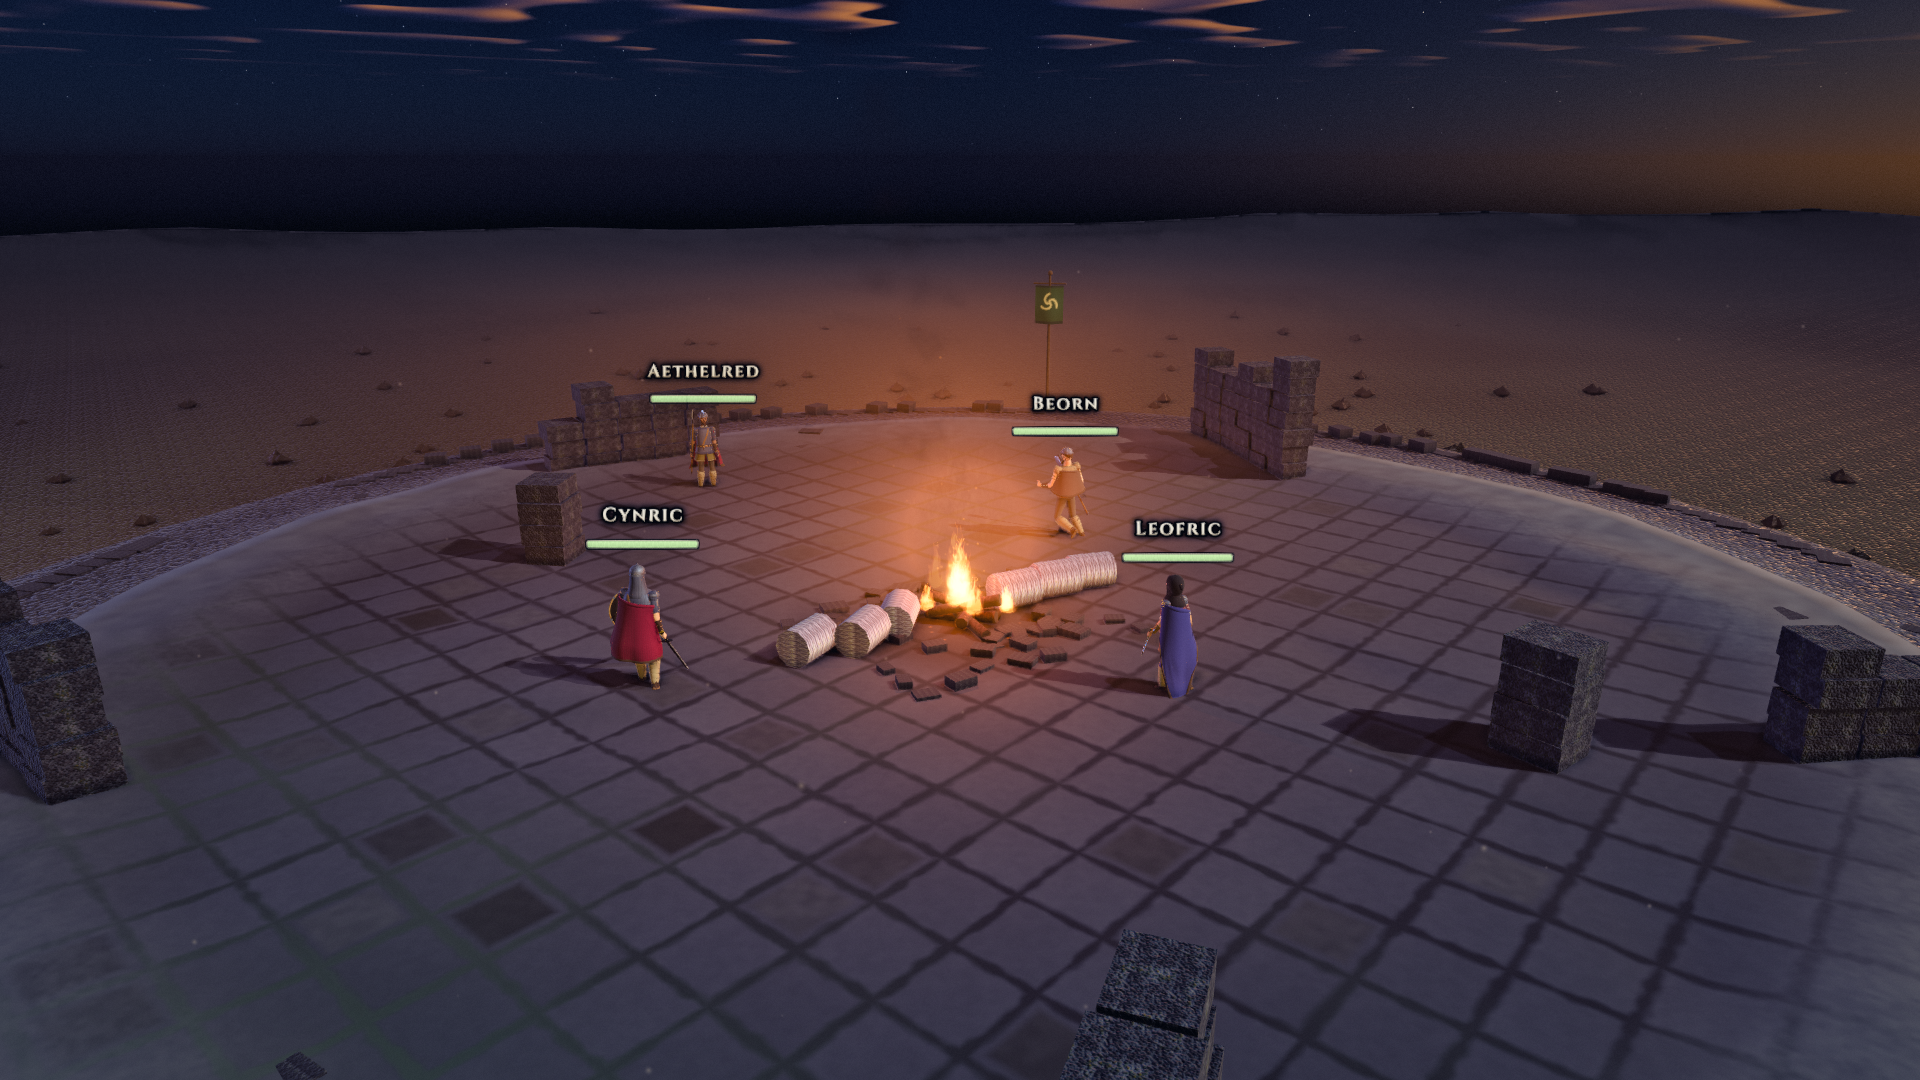
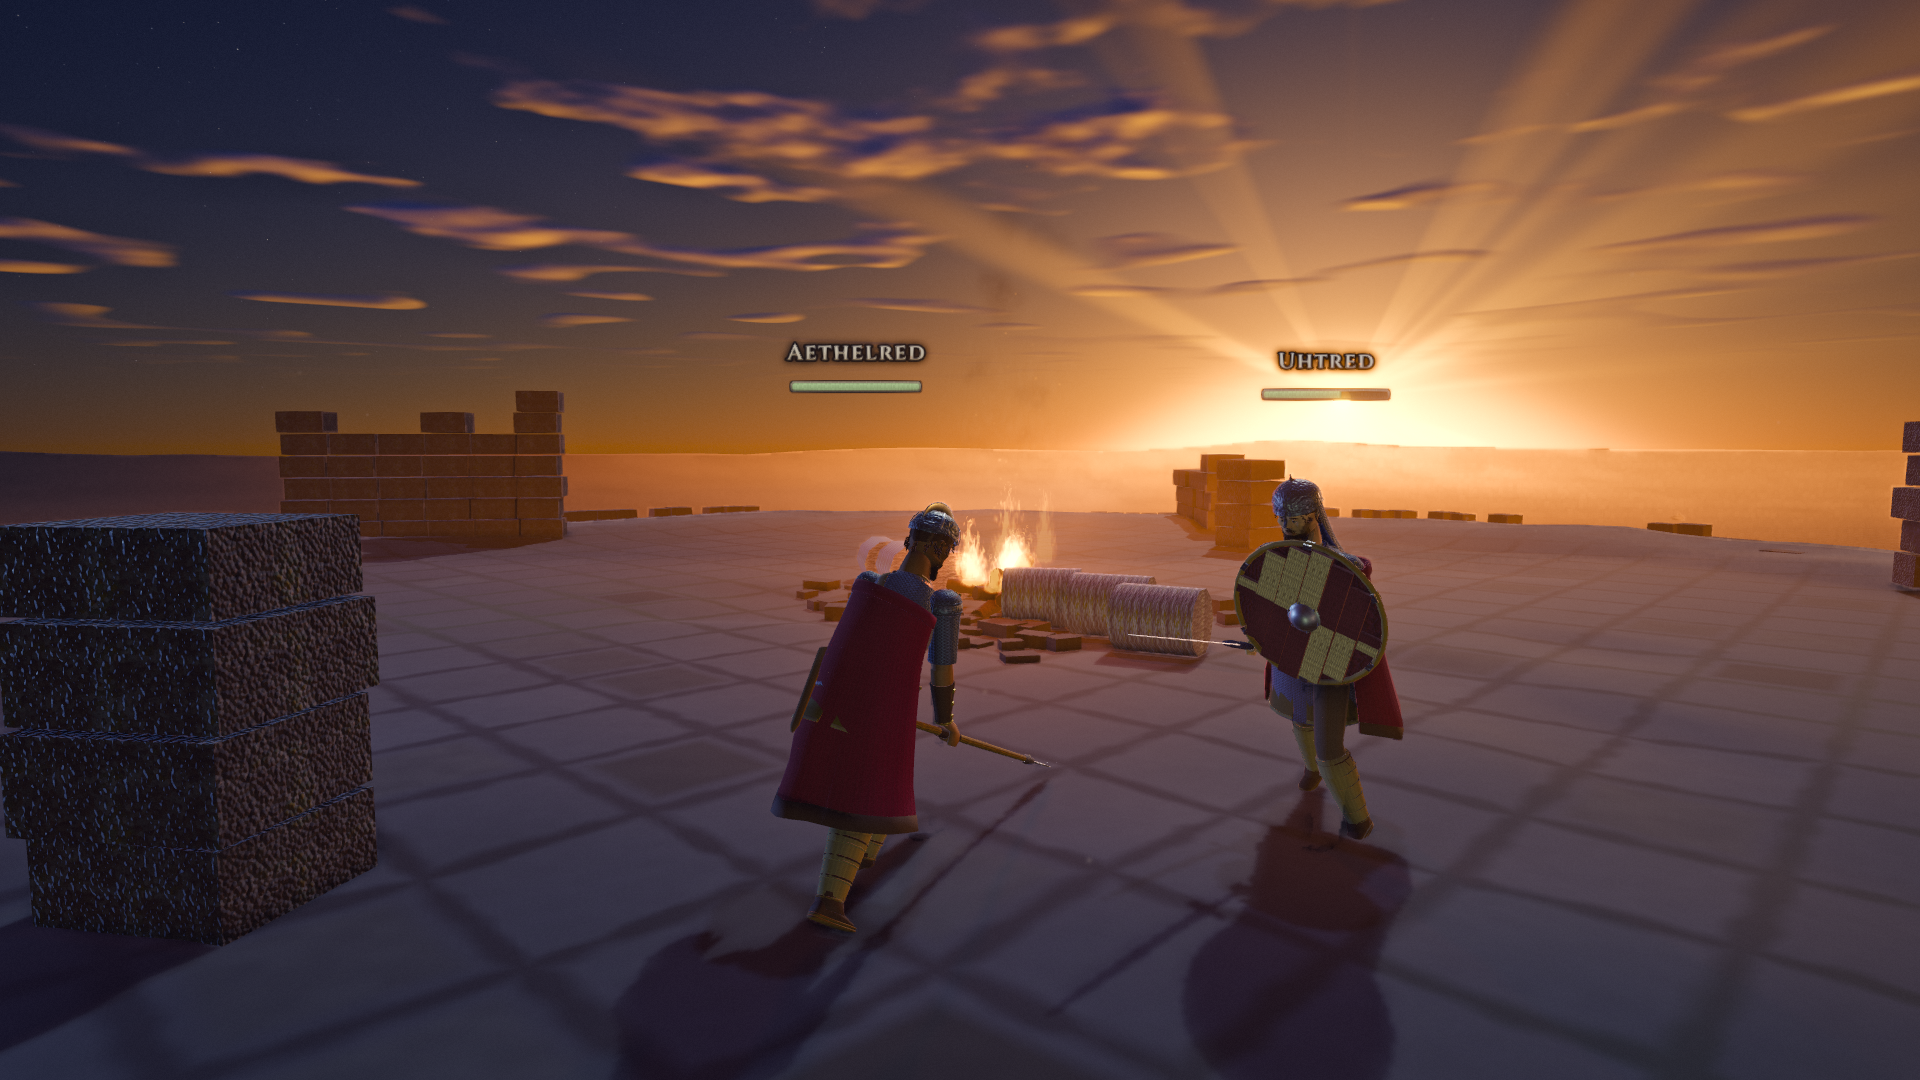
The store's first six frames, the fort's honest note, and the judged wrapper
Six 1920x1080 screenshots off the real renderer land in
store/steam/screenshots — the duel at the fire, the village, the fort,
the Danelaw camp, the last stand, and the team fight in both liveries.
The fort's crane wide photographed a bare plaza and was retaken at the
duel lens; the retake also surfaced a real wave-2 finding, ledgered:
the roman_fort reads thin at fight level, its walls too far off to
frame a fight against.

The desktop CI's second run is green on all three builders — the
wrapper is now a judged artifact with real installers, not a scaffold
taken on faith.

diff --git a/docs/OPEN-DEFECTS.md b/docs/OPEN-DEFECTS.md
@@ -8286,3 +8286,37 @@ every source named in the code beside its constants:
 The catalog is the only list: cosmetictest sweeps ARMOURY itself, so the
 six new rows joined its pair matrix, its helm-compatibility matrix and
 its recolour-flatness claims with no ruler change.
+
+---
+
+## THE STEAM WAVE'S FIRST ROUND + THE CROWN — 28 Aug 2026
+
+**The desktop judge has now judged, twice.** First dispatch: all three OS
+builders refused `productName` "Bretwalda: Blood Moot" — a colon cannot
+be a filename on Windows (Tauri's own `^[^/:*?"<>|]+$`). Fixed to
+"Bretwalda Blood Moot" (the window title keeps its colon; a title bar is
+not a path). Second dispatch: **SUCCESS on windows/macos/ubuntu** — real
+installers (msi/exe/dmg/AppImage/deb) exist as artifacts of run 2. The
+scaffold is no longer asserted-never-judged.
+
+**Steam prep shipped dry:** achievements derived live from the marks
+(one rule two readers; `steamsheet` 5/5 prints the paste-ready table),
+store copy drafted with a fenced do-not-claim list, the asset ledger
+with Valve's exact capsule sizes, and six 1920×1080 store screenshots
+off the real renderer (`tools/storeshots.mjs`, in
+`store/steam/screenshots/`). The fort's first frame was the crane wide
+and photographed a bare plaza — retaken at the duel lens. HONEST NOTE
+FOR THE GROUNDS WAVE: at the duel mark the roman_fort's walls sit too
+far off to frame a fight against; the ground reads thin at fight level
+in a way the village never does. That is a wave-2 look, written down
+here so the screenshot round's finding is not lost.
+
+**The Crown** (retention wave, first piece): the marks table's eleventh
+row, `how: "crowned"`, reading players.bretwaldaSeasons — the fact the
+war has stamped in exactly one place since the season machinery landed.
+ProfileView/adoptServer carry it like level and wins; the roll of
+Bretwaldas names its seasons ("the Season of the Long Frost, s3") per
+7.6; MARK_CROWN joins the Steamworks sheet by derivation alone.
+marktest extended to the grown truth (eleven marks, five facts, two
+confessed inventions) — 25/25. wartest 82/82, moottest 25/25, playtest
+38/38, touchtest 32/32, tsc, lint, build all green.
